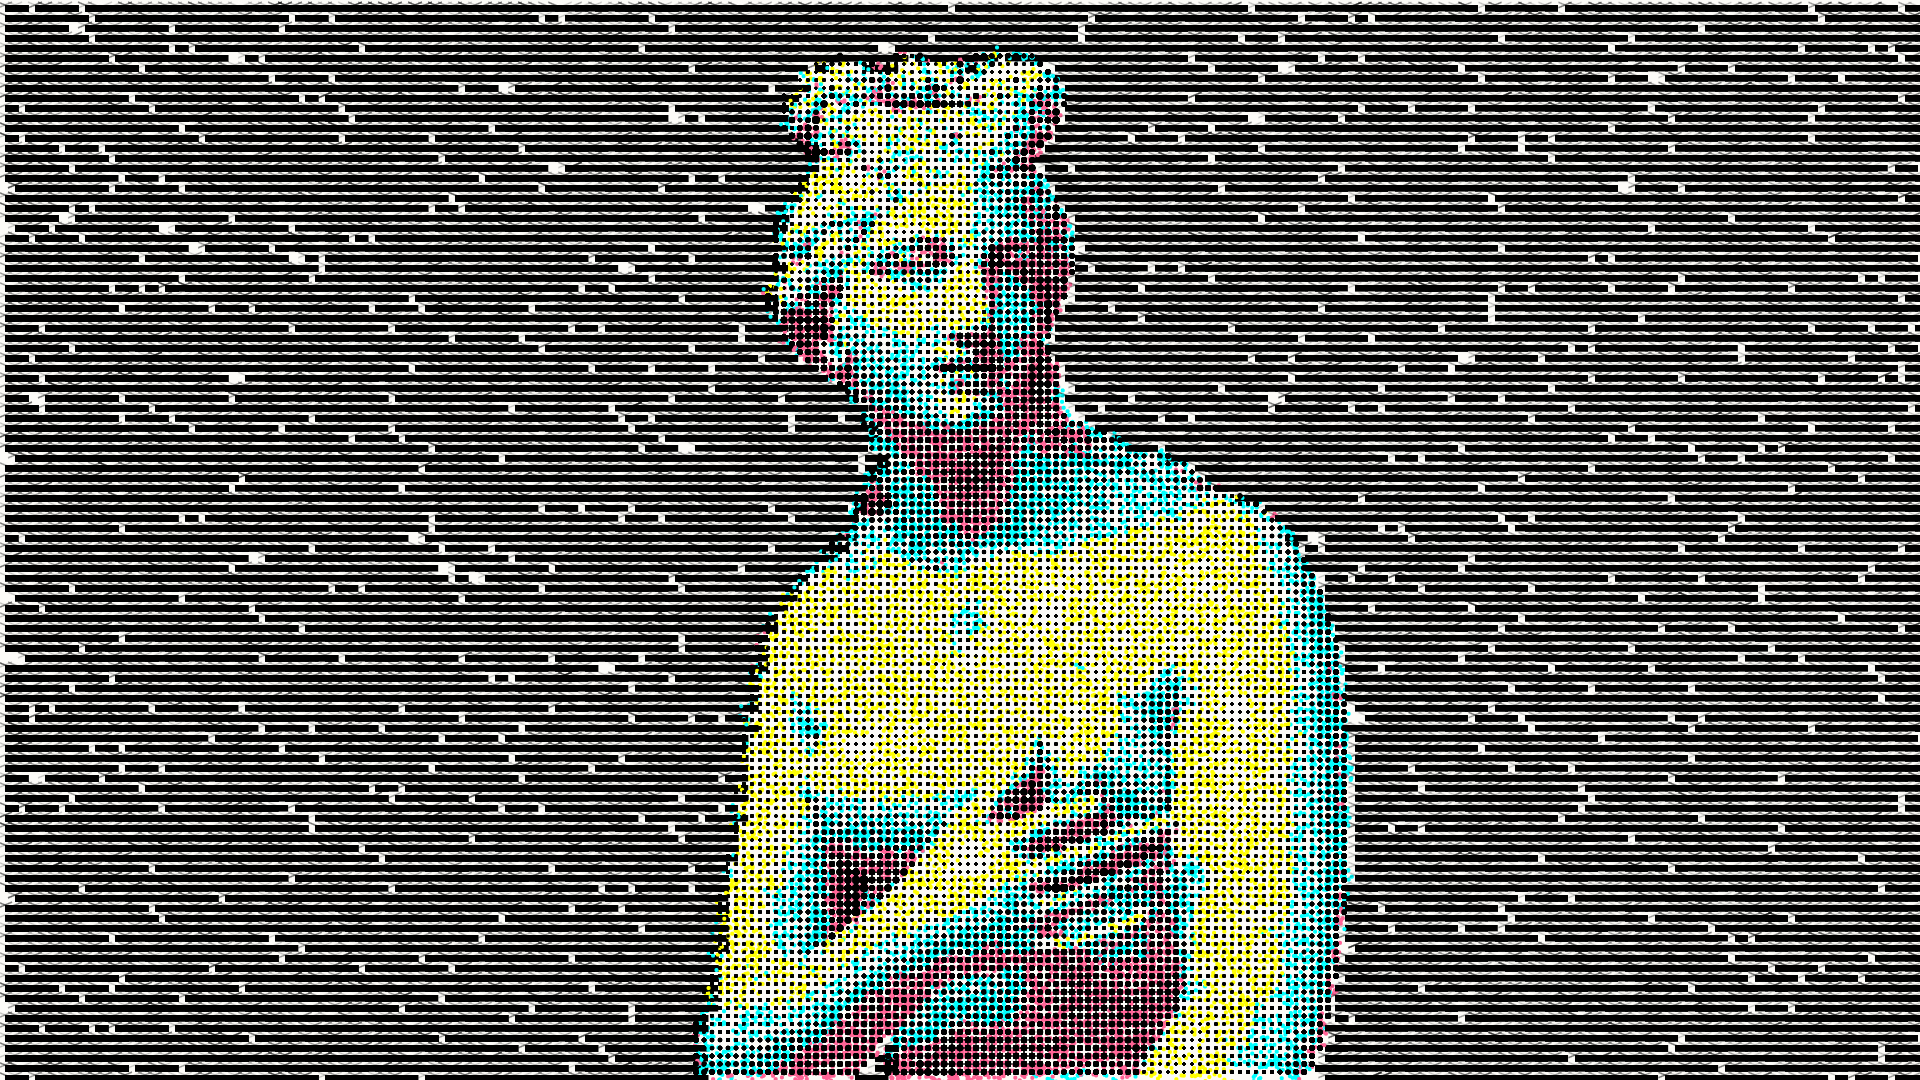
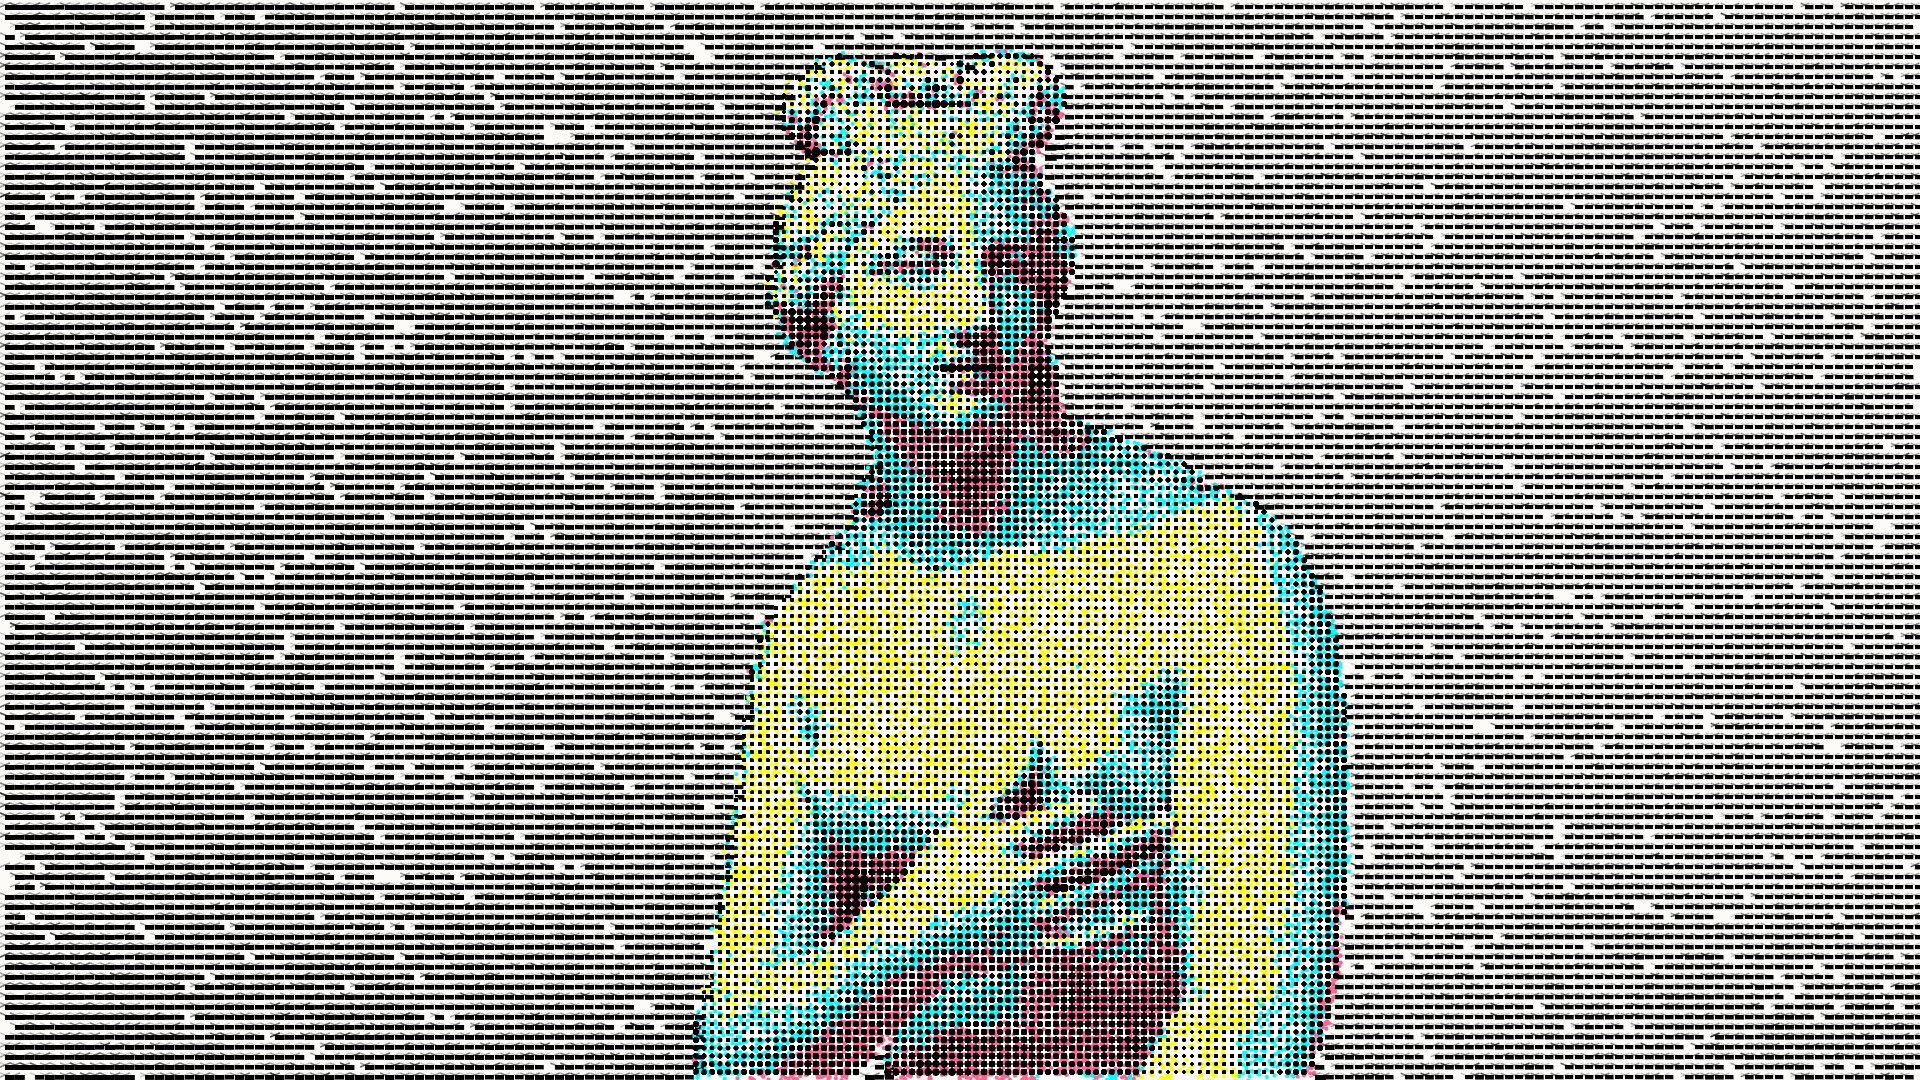
final

diff --git a/sketch.js b/sketch.js
@@ -3,9 +3,9 @@ let maskImg = null;
 let renderCounter = 0;
 
 // change these three lines as appropriate
-let sourceFile = "input_1.jpg";
-let maskFile = "mask_1.png";
-let outputFile = "output_1.png";
+let sourceFile = "input_new2.jpg";
+let maskFile = "mask_new2.png";
+let outputFile = "output_5.png";
 
 function preload() {
   sourceImg = loadImage(sourceFile);
@@ -74,7 +74,7 @@ function draw() {
 
       // 2) Brick‐pattern: width ∈ [8…2] based on brightness
       let br = brightness(c);           // 0–100
-      let bw = map(br, 0, 50, 20, 10);
+      let bw = map(br, 0, 60, 20, 10);
       let drawX = x * (width/sourceImg.width);
       let drawY = y * (height/sourceImg.height);
 
@@ -125,7 +125,7 @@ function draw() {
   if (renderCounter > 10) {
     console.log("Done!");
     noLoop();
-    // saveArtworkImage(outputFile);
+    saveArtworkImage(outputFile);
   }
 }
 

diff --git a/README.md b/README.md
@@ -2,4 +2,36 @@
 [![Open in Visual Studio Code](https://classroom.github.com/assets/open-in-vscode-2e0aaae1b6195c2367325f4f02e2d04e9abb55f0b24a779b69b11b9e10269abc.svg)](https://classroom.github.com/online_ide?assignment_repo_id=19435107&assignment_repo_type=AssignmentRepo)
 ## Creative Coding + AI II: Custom Pixel
 
-The images above are photos of Wellington CBD algorithmically processed with a lightly modified version of the [p5.js Pointillism example](https://p5js.org/examples/image-pointillism.html). The masks for each photo highlight various objects. Replace this text with your own which explains the source of your photos, masking, and applied algorithm.
+## Retro Comic Statue Filter
+
+### Introduction
+
+This project takes a masked statue image and:
+
+- Paints the statue in clustered CMY “Ben-Day” dots whose density and colour are driven by gamma-corrected brightness.
+
+- Fills the background with a repeating “brick + hatch” pattern that echoes letterpress and analogue film errors.
+
+- Overlays a fine black halftone grid on the statue for extra texture.
+
+## Inspiration
+*I sourced these images from Pinterest, I could not find the original artists*
+![Source: Pinterest](https://nz.pinterest.com/pin/349099408631530115/)
+
+![Source: Pinterest](https://nz.pinterest.com/pin/1688918602184339/)
+
+## Design Process
+
+- I drew on photos of classical statues I shot during my travels in Greece and Italy, choosing their timeless forms because their strong, sculptural outlines would translate clearly through whatever filter I applied.- I experimented with classic photo filters like posterize, blur, mosaic, and random colour mappings but the results felt aimless and lacked cohesion. I realized I needed a strong, unifying visual theme to guide the design.- I drew inspiration from vintage comics and Risograph prints, settling on a restrained cyan-magenta-yellow palette and using evenly spaced dot clusters to handle mid-tone shading.
+
+Gamma-Corrected Brightness:
+- Applied a γ>1 curve to push midtones darker and highlights brighter.
+- Mapped b < 30 → 3 dots, 30–60 → 2 dots, 60–85 → 1 dot.
+
+- I mapped the darkest areas to magenta, midtones to cyan, and highlights to yellow. I had to play around with the boundaries for each colour. Initially, not enough magenta was showing up. This meant that I had to adjust the original pixData to add contrast so that the tones were more dramatic. Hence why I adjusted using Gamma.
+
+- I was inspired by the fact that during their time, these statues would have been painted in vibrant colours. I wanted to recolour them, but with a modern twist. 
+
+- I explored various looks: from Moiré interference patterns to glitchy scan‐line effects and high-contrast duotone overlays but ultimately landed on a grid of repeating “bricks” for the background. Each brick’s width is driven by the underlying pixel brightness, so darker areas yield wider blocks, and I overlaid tiny, randomly rotated hatch lines (at ±22.5°) to give everything a subtle, hand-printed texture reminiscent of analogue printmaking. I stumbled upon this, but I liked the way it looked like an old black and white TV static texture.
+
+- I finished by overlaying a precise grid of black dots (every 8px and sized according to local brightness) across the statue.
